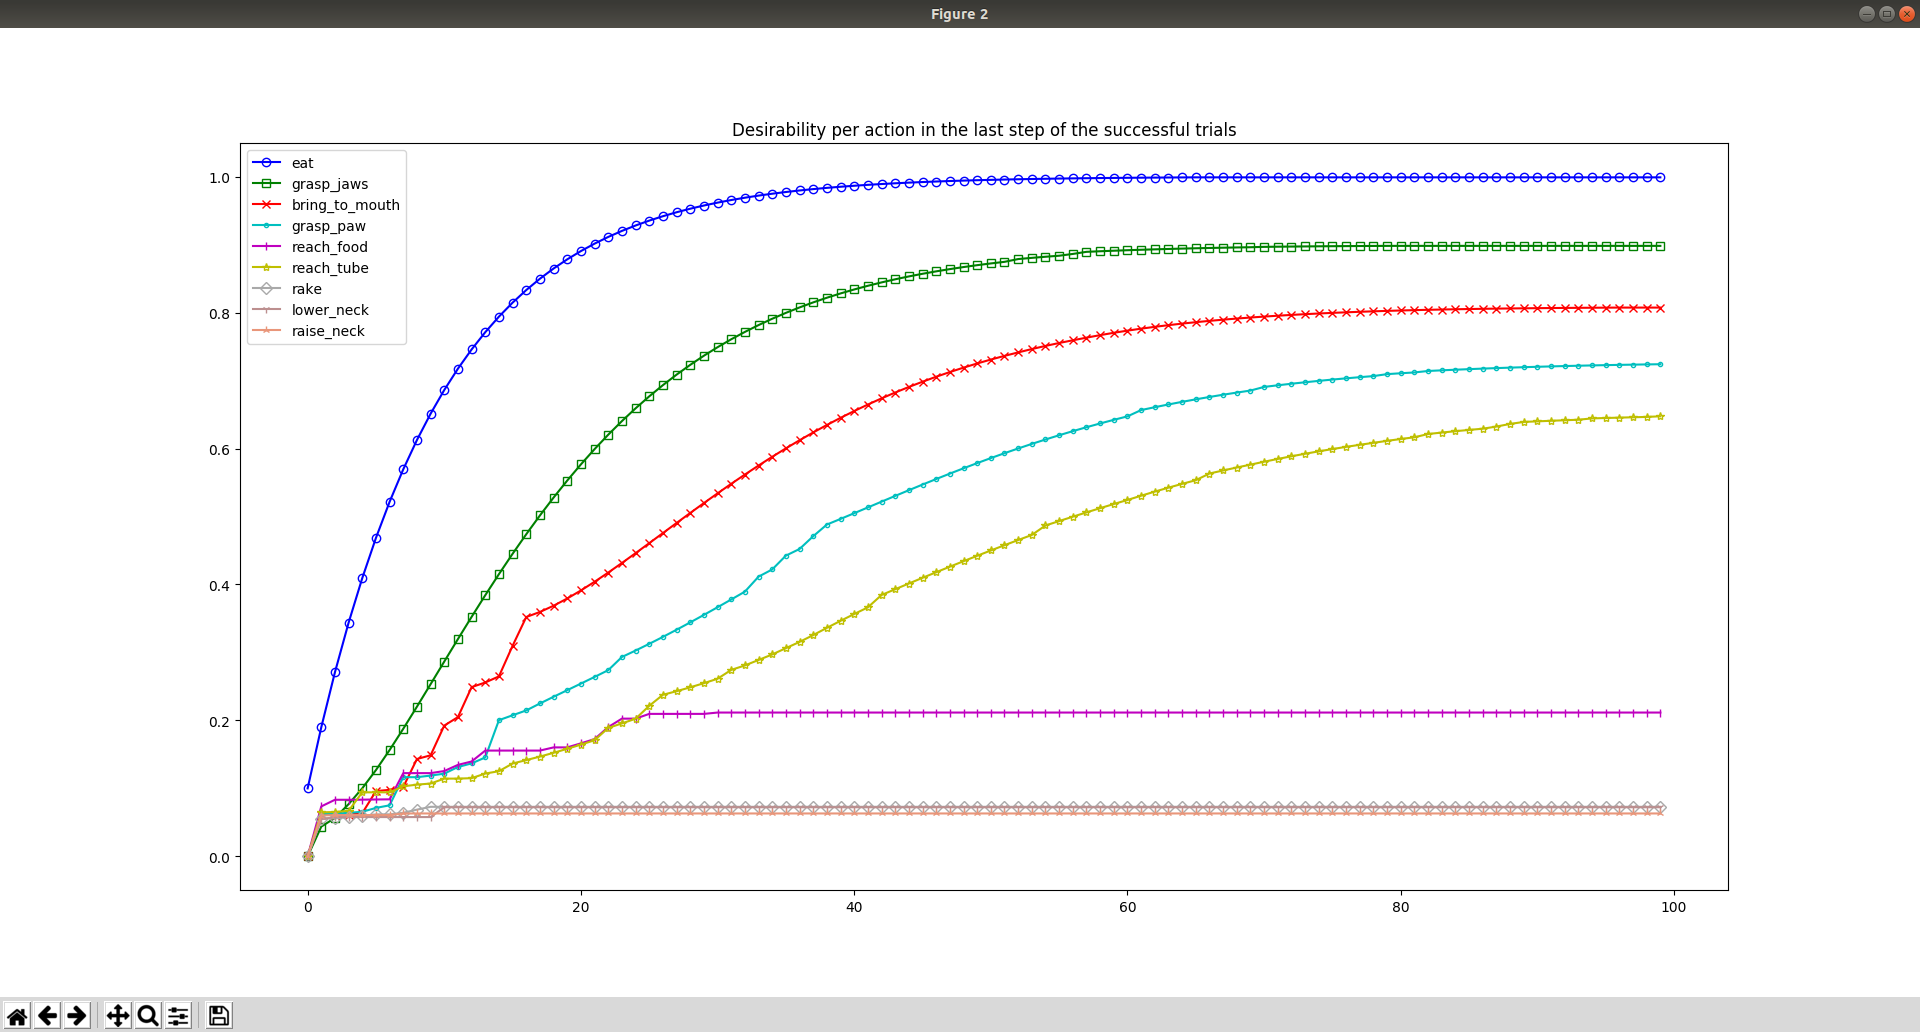
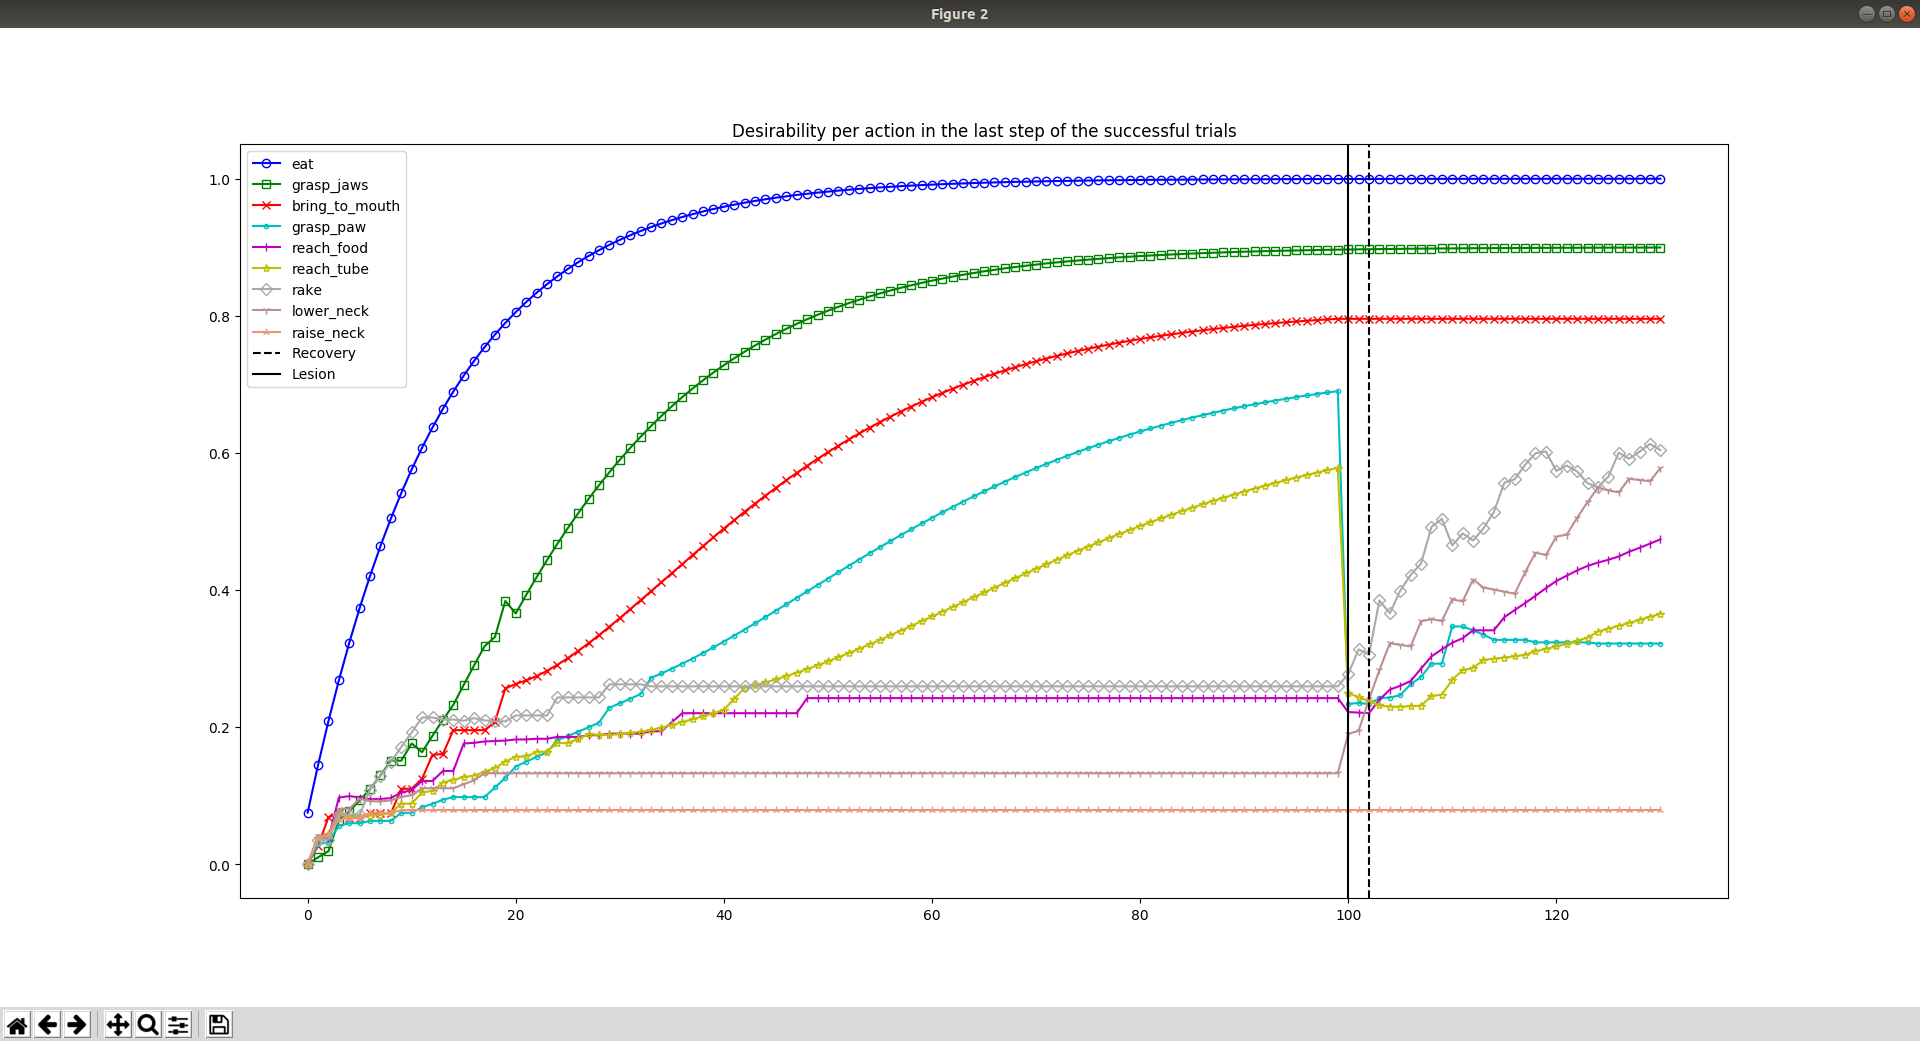
Update READΜΕ. Finalize various things

diff --git a/agent.py b/agent.py
@@ -15,23 +15,26 @@ AVAILABLE_ACTIONS = [Eat, GraspJaws, BringToMouth, GraspPaw, ReachFood,
 
 
 def calc_mirror_system_input(current_state, next_state, hunger):
+    """Returns a vector which combines all the input.
+
+    There are many ways the input can be combined to form an 1d vector.
+    The main requirement that the representation must meet is the
+    network to be able to generalize enough to interpet a lesioned grasp
+    as a rake.
+    Bellow a pretty dense representation is chosen which consists of the
+    concatenation of the summation of both axes of the difference of the
+    input.
+    This function is used in the creation of the dataset that the network
+    is trained on and during the simulation.
+    """
     if np.all(np.asarray(current_state.values()) ==
               np.asarray(next_state.values())):
         return np.append(np.zeros(140), (1 - hunger))
     current_state = np.stack(current_state.values())
     next_state = np.stack(next_state.values())
-    # print type(current_state), type(next_state), (np.asarray(current_state.values()) == np.asarray(next_state.values()))
-    # state = current_state.values()
-    # state.extend(next_state.values())
-    # prod = np.linalg.multi_dot(state)
-    # state = np.asarray(state).sum(axis=0)
-    # state = prod
     diff = (next_state - current_state)
-    # state = np.append(diff.sum(axis=1), diff.sum(axis=2))
     state = diff.sum(axis=1) + diff.sum(axis=2)
     return np.append(state.flatten(), (1 - hunger))
-    # return np.append((next_state - current_state).flatten(), (1 - hunger))
-
 
 
 class Agent:
@@ -46,7 +49,6 @@ class Agent:
         self.learn = learn
 
         self.n_irr_actions = n_irrelevant_actions
-        # self.actions = [a(lesion=lesion) for a in AVAILABLE_ACTIONS[:-1]]
         self.actions = OrderedDict()
         for i in range(len(AVAILABLE_ACTIONS[:-1])):
             self.actions[AVAILABLE_ACTIONS[i]().name] = AVAILABLE_ACTIONS[i]()
@@ -123,7 +125,8 @@ class Agent:
 
             desir = des_vec[recognized_action_i]
             r_des, eligibility_trace = self.get_desirability_reinforcement(
-                recognized_action_i, env, executable, r_signal, desir, ms_output)
+                recognized_action_i, env, executable, r_signal, desir,
+                ms_output)
 
             self.update_executability(r_ex, percept)
 
@@ -189,10 +192,6 @@ class Agent:
                     reinforce[i] = -1
                 elif ms_output[i] > ACQprms.psi:
                     reinforce[i] = 1
-            # if executable and selected_action.name in ('grasp_paw'):
-                # print priority, ms_output, reinforce, selected_action.name, executable, np.all(ms_input == 0)
-                # print ms_output, reinforce, selected_action.name, executable
-                # self.env.print_current_state()
             return reinforce.astype('float')
         # If the mirror system is absent, the paper doesn't describe what
         # the reinforcement is.
@@ -244,7 +243,7 @@ class Agent:
                                        executable, r_signal, desir,
                                        ms_output):
         """Compute desirability reinforcement"""
-        if not self.use_mirror_system and (not executable or \
+        if not self.use_mirror_system and (not executable or
            self.actions.values()[selected_action_i].type == 'irrelevant'):
             return 0, np.zeros(self.n_actions)
         if self.actions.values()[selected_action_i].type == 'irrelevant':
@@ -255,27 +254,15 @@ class Agent:
             self.perceive(env),
             self.get_internal_state(),
             False)
+
         next_des = next_des_vec[next_action_i]
 
         if self.use_mirror_system:
-            reinforce = r_signal + ACQprms.gamma * next_des - desir
             reinforce = r_signal + ACQprms.gamma * next_des - \
                 self.w_is[selected_action_i]
             eligibility_trace = np.zeros(self.n_actions)
             eligibility_trace[:self.n_rel_actions] = \
                 (ms_output > ACQprms.s_p).astype('int')
-            # eligibility_trace[:self.n_rel_actions] = \
-            #     (ms_output > 0).astype('int')
-            # eligibility_trace = np.tanh(ms_output)
-            # if reinforce > 0 and self.w_is[selected_action_i] > 0.95:
-            #     print self.actions.keys()[selected_action_i]
-            #     print "r={}, signal={}, next_des={}, weight={}, desir={}".format(
-            #         reinforce, r_signal, next_des, self.w_is[selected_action_i], desir)
-            #     print "selected action={}, next={}".format(selected_action_i,
-            #                                                next_action_i)
-            #     print "next_weight={}".format(self.w_is[next_action_i])
-            #     print self.get_executability(self.perceive(env), False)
-            #     env.print_current_state()
             return reinforce, eligibility_trace
 
         # If the mirror system is absent, the paper doesn't describe what
@@ -289,15 +276,11 @@ class Agent:
 
         # As desirability either the weight or the noised(-free?) computed
         # desirability (next_des) can be used
-        # Both alternatives are written below.
-        # Because noise is inside the given desirability of the selected action
-        # these alternatives are NOT equal.
         reinforce = r_signal + ACQprms.gamma * next_des - \
             self.w_is[selected_action_i]
 
         # Debug
         # if self.actions.keys()[selected_action_i] in ()
-           
         #     print self.actions.keys()[selected_action_i]
         #     print "r={}, signal={}, next_des={}, weight={}, desir={}".format(
         #         reinforce, r_signal, next_des, self.w_is[next_action_i], desir)
@@ -306,8 +289,6 @@ class Agent:
         #     print self.get_executability(self.perceive(env), False)
         #     env.print_current_state()
 
-        # if -1e018 < reinforce < +1e-018:
-        #     reinforce = 0
         # Compute eligibility trace
         eligibility_trace = np.zeros(self.n_actions)
         eligibility_trace[selected_action_i] = 1

diff --git a/simulate_many.py b/simulate_many.py
@@ -23,23 +23,25 @@ else:
 max_eat = 100
 max_actions = 50
 
-n_irrelevant_actions = [0, 1, 5, 10, 25, 40, 50, 70, 100]
-start = 0
+n_irrelevant_actions = [0, 2, 5, 10, 25, 40, 50, 70, 80, 100]
+start = 8
 end = len(n_irrelevant_actions)
-n_sims_per_level = 10
+end = 9
+n_sims_per_level = 5
 ms_recovery_time_per_level = []
 ms_recovery_error_per_level = []
 no_ms_recovery_time_per_level = []
 no_ms_recovery_error_per_level = []
 
-
+global_start_time = time.time()
+n_sims = len(n_irrelevant_actions[start:end]) * n_sims_per_level * 2
+i_sims = 1
 for n_irr_action in n_irrelevant_actions[start:end]:
     no_ms_temp = []
     ms_temp = []
     for i in range(n_sims_per_level):
-        print ("Running without mirror system "
-               "[Irrelevant actions={}-n={}/{}]...").format(
-            n_irr_action, i + 1, n_sims_per_level)
+        print "[{}/{}]: Running NO-MS [Irrel actions:{}-n:{}/{}]...".format(
+            i_sims, n_sims, n_irr_action, i + 1, n_sims_per_level)
         start_time = time.time()
         recovery_time = 0
         # If recovery < 4 then probably the strategy was already
@@ -48,24 +50,29 @@ for n_irr_action in n_irrelevant_actions[start:end]:
             recovery_time = simulate_one(max_eat, max_actions, False,
                                          n_irr_action, mirror_system=net,
                                          useCuda=useCuda, verbose=0)
-        print "Time needed: {}".format(time.time() - start_time)
+        print "Recovery: {} trials, Time needed: {} sec".format(
+            recovery_time, int(time.time() - start_time))
         no_ms_temp.append(recovery_time)
 
-        print ("Running with mirror system "
-               "[Irrelevant actions={}-n={}/{}]...").format(
-            n_irr_action, i + 1, n_sims_per_level)
+        print "[{}/{}]: Running MS [Irrel actions:{}-n:{}/{}]...".format(
+            i_sims + 1, n_sims, n_irr_action, i + 1, n_sims_per_level)
         start_time = time.time()
         recovery_time = 0
         while recovery_time < 4:
             recovery_time = simulate_one(max_eat, max_actions, True,
                                          n_irr_action, mirror_system=net,
                                          useCuda=useCuda, verbose=0)
-        print "Time needed: {}".format(time.time() - start_time)
+        print "Recovery: {} trials, Time needed: {} sec".format(
+            recovery_time, int(time.time() - start_time))
         ms_temp.append(recovery_time)
+        i_sims += 2
     no_ms_recovery_time_per_level.append(np.mean(no_ms_temp))
     no_ms_recovery_error_per_level.append(np.std(no_ms_temp))
     ms_recovery_time_per_level.append(np.mean(ms_temp))
     ms_recovery_error_per_level.append(np.std(ms_temp))
+
+print "Time needed for all the simulations: {} mins".format(
+    np.round(int(time.time() - global_start_time) / 60.))
 
 np.savez_compressed(
     'many_stats.npz',

diff --git a/simulate_one.py b/simulate_one.py
@@ -116,8 +116,9 @@ def simulate(agent, verbose=0, plot=0, **kwargs):
         plt.title("Desirability per action in the last step "
                   "of the successful trials")
         for i in range(n_rel_actions):
-            plt.plot(last_action_desirability[i, :], label=labels[i],
-                     color=colors[i], marker=marks[i], mfc='none')
+            plt.plot(last_action_desirability[i, :trial_success],
+                     label=labels[i], color=colors[i],
+                     marker=marks[i], mfc='none')
         if recovery_time:
             plt.axvline(x=recovery_time[1], color='black', ls='--',
                         label='Recovery')
@@ -127,7 +128,7 @@ def simulate(agent, verbose=0, plot=0, **kwargs):
 
         plt.figure()
         plt.title("Trial length of successful trials")
-        plt.plot(success_trial_length, 'o')
+        plt.plot(success_trial_length[:trial_success], 'o')
         plt.legend()
 
         plt.figure()
@@ -161,10 +162,8 @@ def simulate_one(max_eat, max_actions, use_mirror_system,
     kwargs['max_actions'] = max_actions
     # Statistics
     n_rel_actions = agent.n_actions - agent.n_irr_actions
-    kwargs['executability_error'] = np.zeros(max_eat) - 1
     kwargs['success_trial_length'] = np.zeros(max_eat) - 1
     kwargs['total_trial_length'] = []
-    kwargs['total_executability_error'] = []
     kwargs['last_action_desirability'] = np.zeros((n_rel_actions,
                                                    max_eat)) - 1
     kwargs['all_last_action_desirability'] = np.zeros((n_rel_actions,
@@ -204,7 +203,7 @@ if __name__ == '__main__':
 
     max_eat = 100
     max_actions = 50
-    n_irrelevant_actions = 10
+    n_irrelevant_actions = 25
 
     recovery_time = simulate_one(max_eat, max_actions, use_mirror_system,
                                  n_irrelevant_actions, mirror_system=net,

diff --git a/actions.py b/actions.py
@@ -115,7 +115,11 @@ class GraspPaw(Action):
         self.lesion = lesion
 
     def preconditions(self, env):
-        """Paw close to food."""
+        """Paw close to food.
+
+        If the max distance for executability is changed from 5 to 2
+        then the action ReachFood will become necessary.
+        """
         return (abs_diff_g_than(env.paw, env.food, 0) &
                 abs_diff_leq_than(env.paw, env.food, 5))
 
@@ -125,8 +129,11 @@ class GraspPaw(Action):
             env.paw = env.food[:]
         else:
             env.paw = env.food + [0, 5]
-            env.food[0] = min(30, env.food[0] + np.random.randint(low=-10,
-                                                                  high=2))
+            # In the paper a random number in range [-10, 2] is added
+            # Slightly changed, as it seemed to work better with the
+            # network tested, but other limits work too
+            env.food[0] = min(30, env.food[0] + np.random.randint(low=-8,
+                                                                  high=3))
             if env.food[0] < 0:
                 env.food[0] = 0
             if env.food[1] == env.tube[1] and env.food[0] < env.tube[0]:
@@ -147,7 +154,6 @@ class ReachFood(Action):
         return ((abs_diff_geq_than(env.food, env.paw, 5) &
                 (env.food[1] == 0)) |
                 (((env.food[1] == env.tube[1]) &
-                 # abs_diff_l_than(env.paw, env.food, 5))))
                  abs_diff_l_than(env.paw, env.tube, 5))))
 
     def effects(self, env, agent):

diff --git a/create_mirror_system.py b/create_mirror_system.py
@@ -131,7 +131,7 @@ def create_dataset(size=5000):
                 env.reset()
                 break
         g_i += 1
-    for i in range(max_zero*9):
+    for i in range(max_zero * 9):
         dataset.append([np.append(zeros, 0),
                         np.zeros(len(AVAILABLE_ACTIONS[:-1]))])
     print "Dataset creation time: {} sec.".format(time.time() - start_time)

diff --git a/acq_parameters.py b/acq_parameters.py
@@ -43,7 +43,7 @@ class ACQparameters:
     # unstable when this value is too large
     # In the paper a = 0.1
     # The model is very sensitive of this parameter
-    a = 0.07
+    a = 0.075
 
     # Desirability discount rate
     # Determines maximal length of action sequences that can be

diff --git a/README.md b/README.md
@@ -3,28 +3,62 @@ This is a python implementation of Bonaiuto and Arbib's scientific paper
 [Extending the mirror neuron system model, II: what did I just do? A new role for mirror neurons.](https://www.ncbi.nlm.nih.gov/pubmed/20217428)
 
 It is an attempt to reproduce the results for teaching purposes.
+
 ## How to run
 ### Requirements
 Requires **python 2.7+**.
+
+The neural network simulating the mirror system is implemented with [pytorch](https://pytorch.org/).
+
 Additional libraries can be install through pip, using
 
 
-  ```pip install -r requirements.txt```
+```
+    pip install -r requirements.txt
+```
 
 ### Run
-To start the simulation, execute the main code
+The parameters of the Augmented Competitive Queue (ACQ) can be set in the
+file **acq_parameters.py**.
 
-  ```python main.py```
+To run one simulation, set the parameters (with or without a mirror system)
+in the file **simulate_one.py** and execute it
+
+```
+    python simulate_one.py
+```
+
+To run many simulations with varying number of irrelevant actions, set
+the corresponding parameters in the file **simulate_many.py** and execute it
+
+```
+    python simulate_many.py
+```
 
 ## Sample Results
-### With mirror system
-![desirability per action](../master/images/ms_desirabilities.png)
+### Single Simulation
+The figures bellow depict the desirability curves of the actions and the
+trial lengths with and without the mirror system. 
+The solid vertical line signifies the the moment of the lesion, whereas the
+dashed vertical line is the time of recovery, i.e. the time when the _"cat"_
+found the new optimal strategy.
 
-![trial length](../master/images/ms_lengths.png)
-### Without mirror system
-![desirability per action](../master/images/no_ms_desirabilities.png)
+With the mirror system | Without the mirror system
+:--------------------: | :-----------------------:
+![desirability per action](../master/images/ms_desirabilities_all.png) | ![desirability per action](../master/images/no_ms_desirabilities_all.png)
+![desirability per action](../master/images/ms_desirabilities.png) | ![desirability per action](../master/images/no_ms_desirabilities.png)
+![trial length](../master/images/ms_lengths_all.png) | ![trial length](../master/images/no_ms_lengths_all.png)
+![trial length](../master/images/ms_lengths.png) | ![trial length](../master/images/no_ms_lengths.png)
+### Recovery
+The figure bellow shows the mean trials (along with the standard error) required for recovery after the lesion as a function
+of the number of irrelevant actions for an agent with the mirror system and without.
 
-![trial length](../master/images/no_ms_lengths.png)
+The main difference, in contrast to the paper, is that the agent without the mirror system cannot find easily the optimal
+strategy even if only 1 irrelevant actions is available. But the important point, that as the number of irrelevant
+actions increases the agent without the mirror system needs more trials for recovery, but the agent with the mirror system
+is not affected.
+
+![desirability per action](../master/images/recovery_rate.png)
 
 ## References
 
